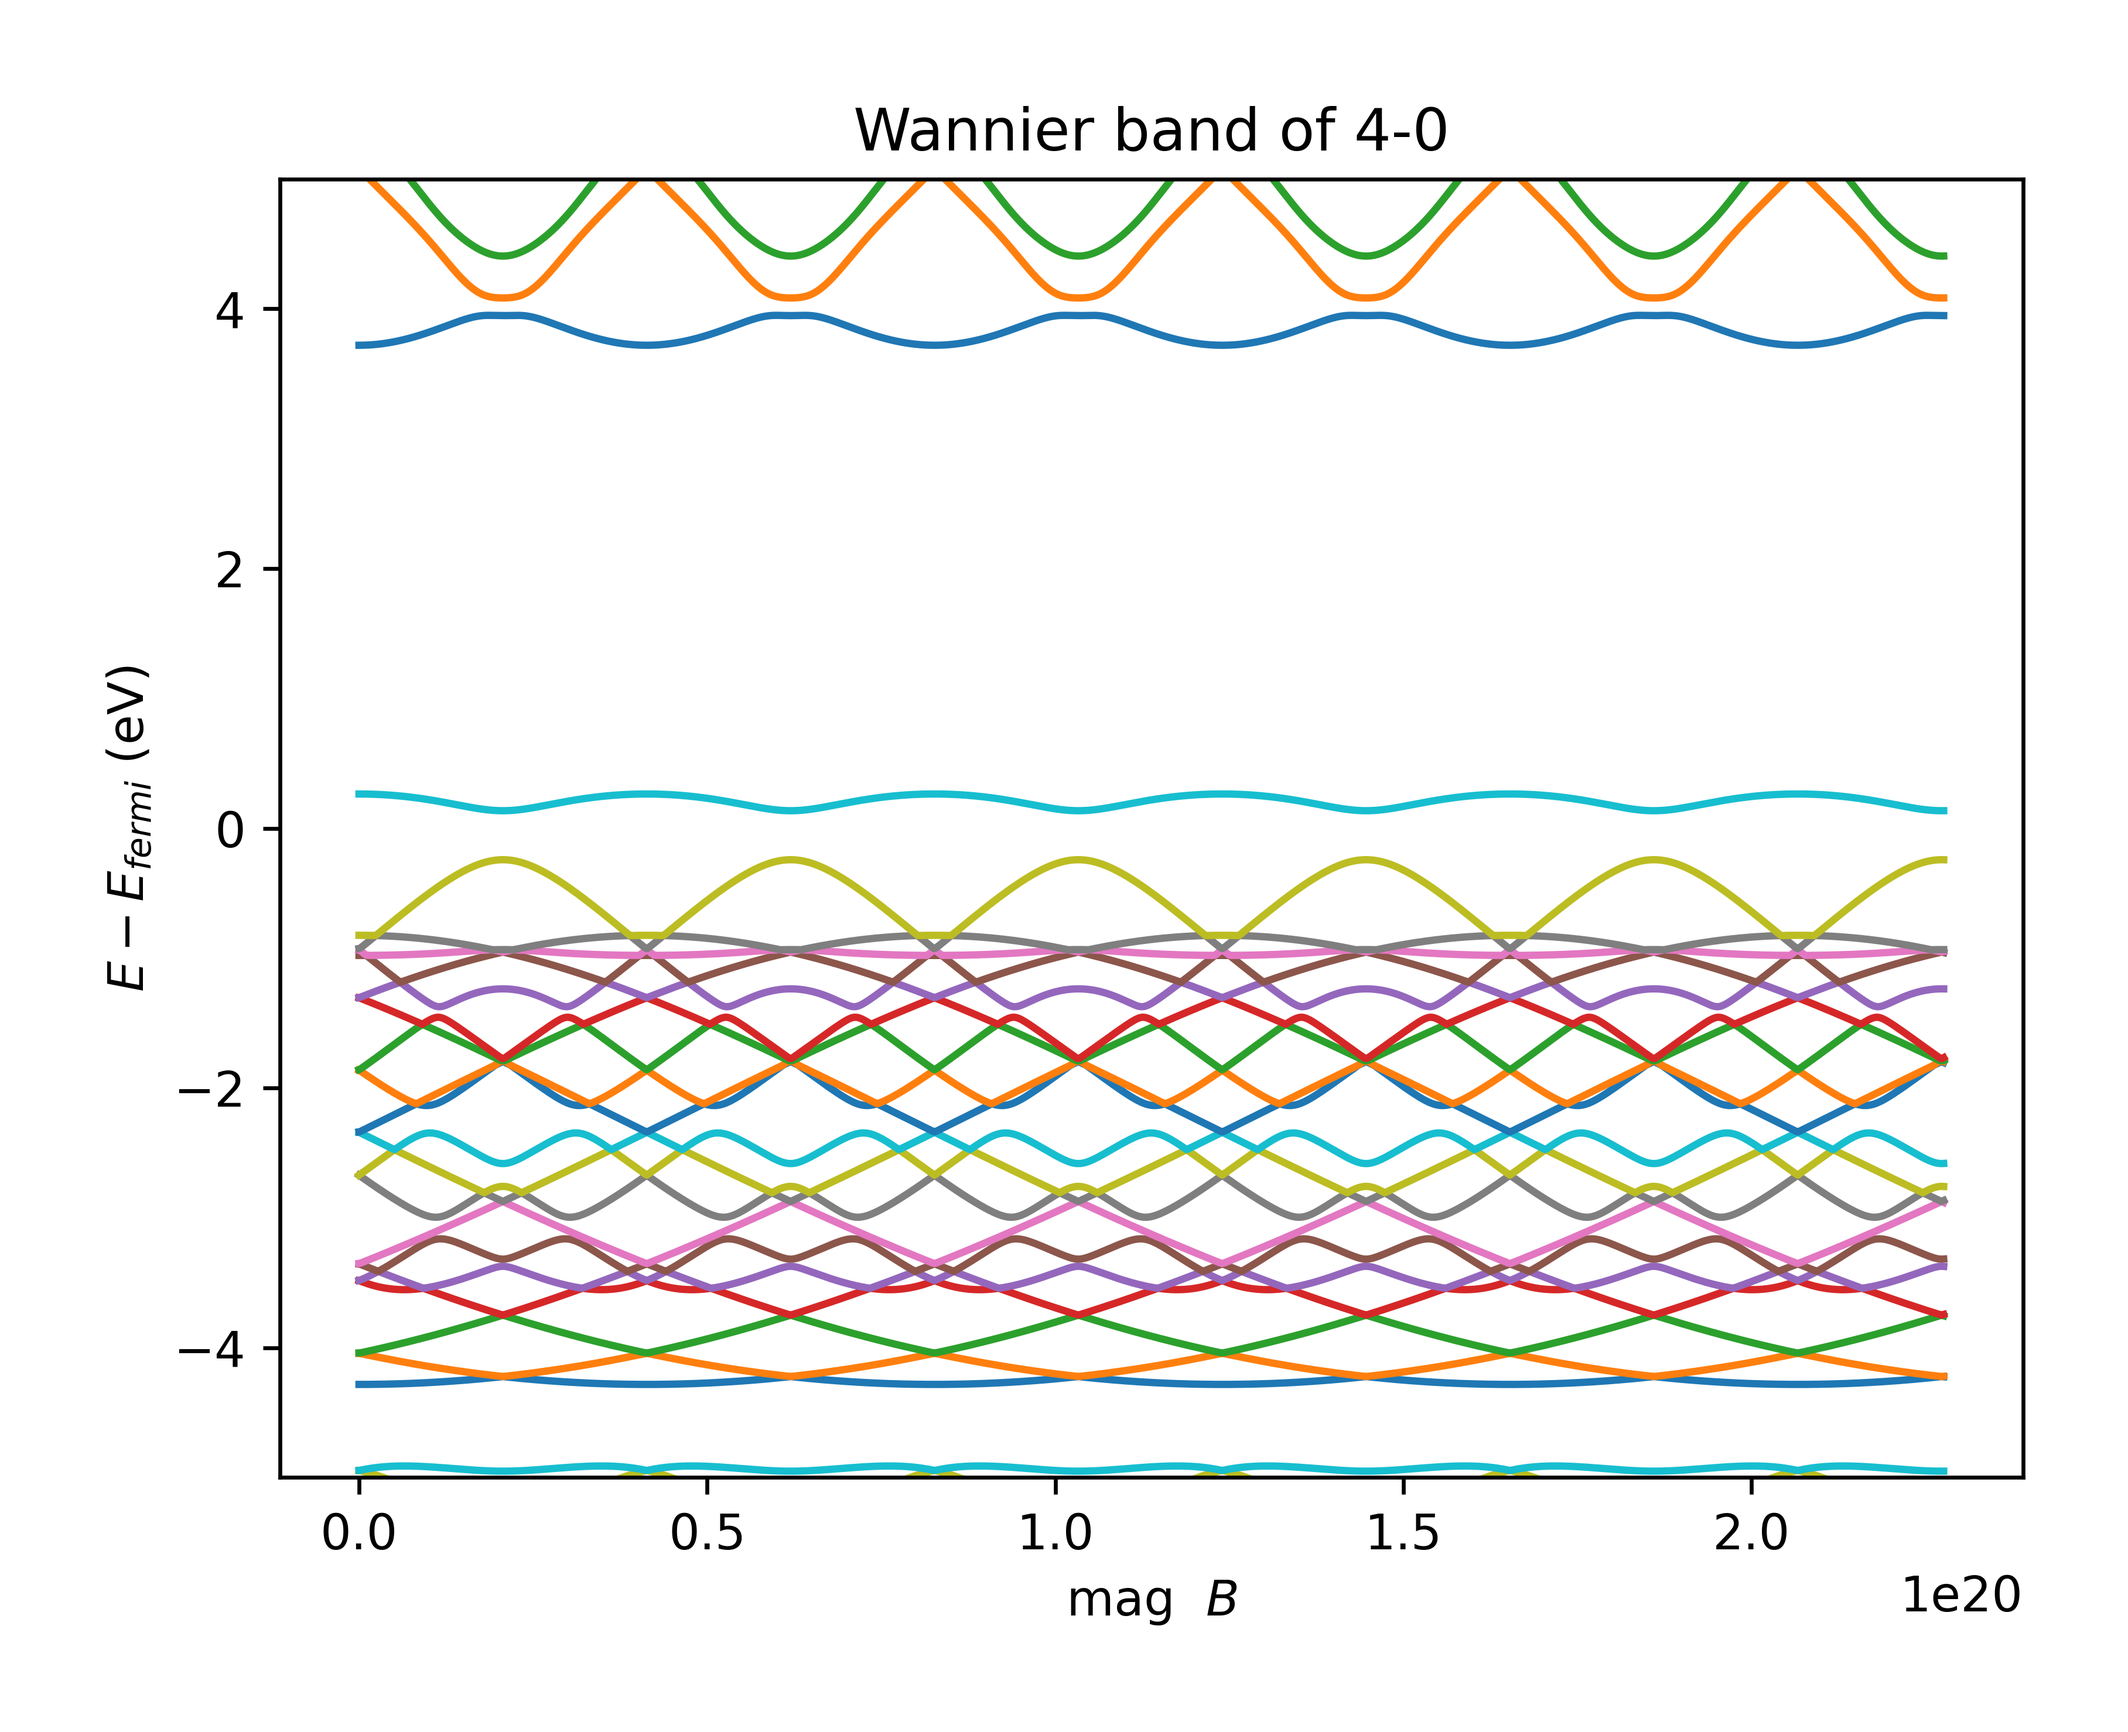
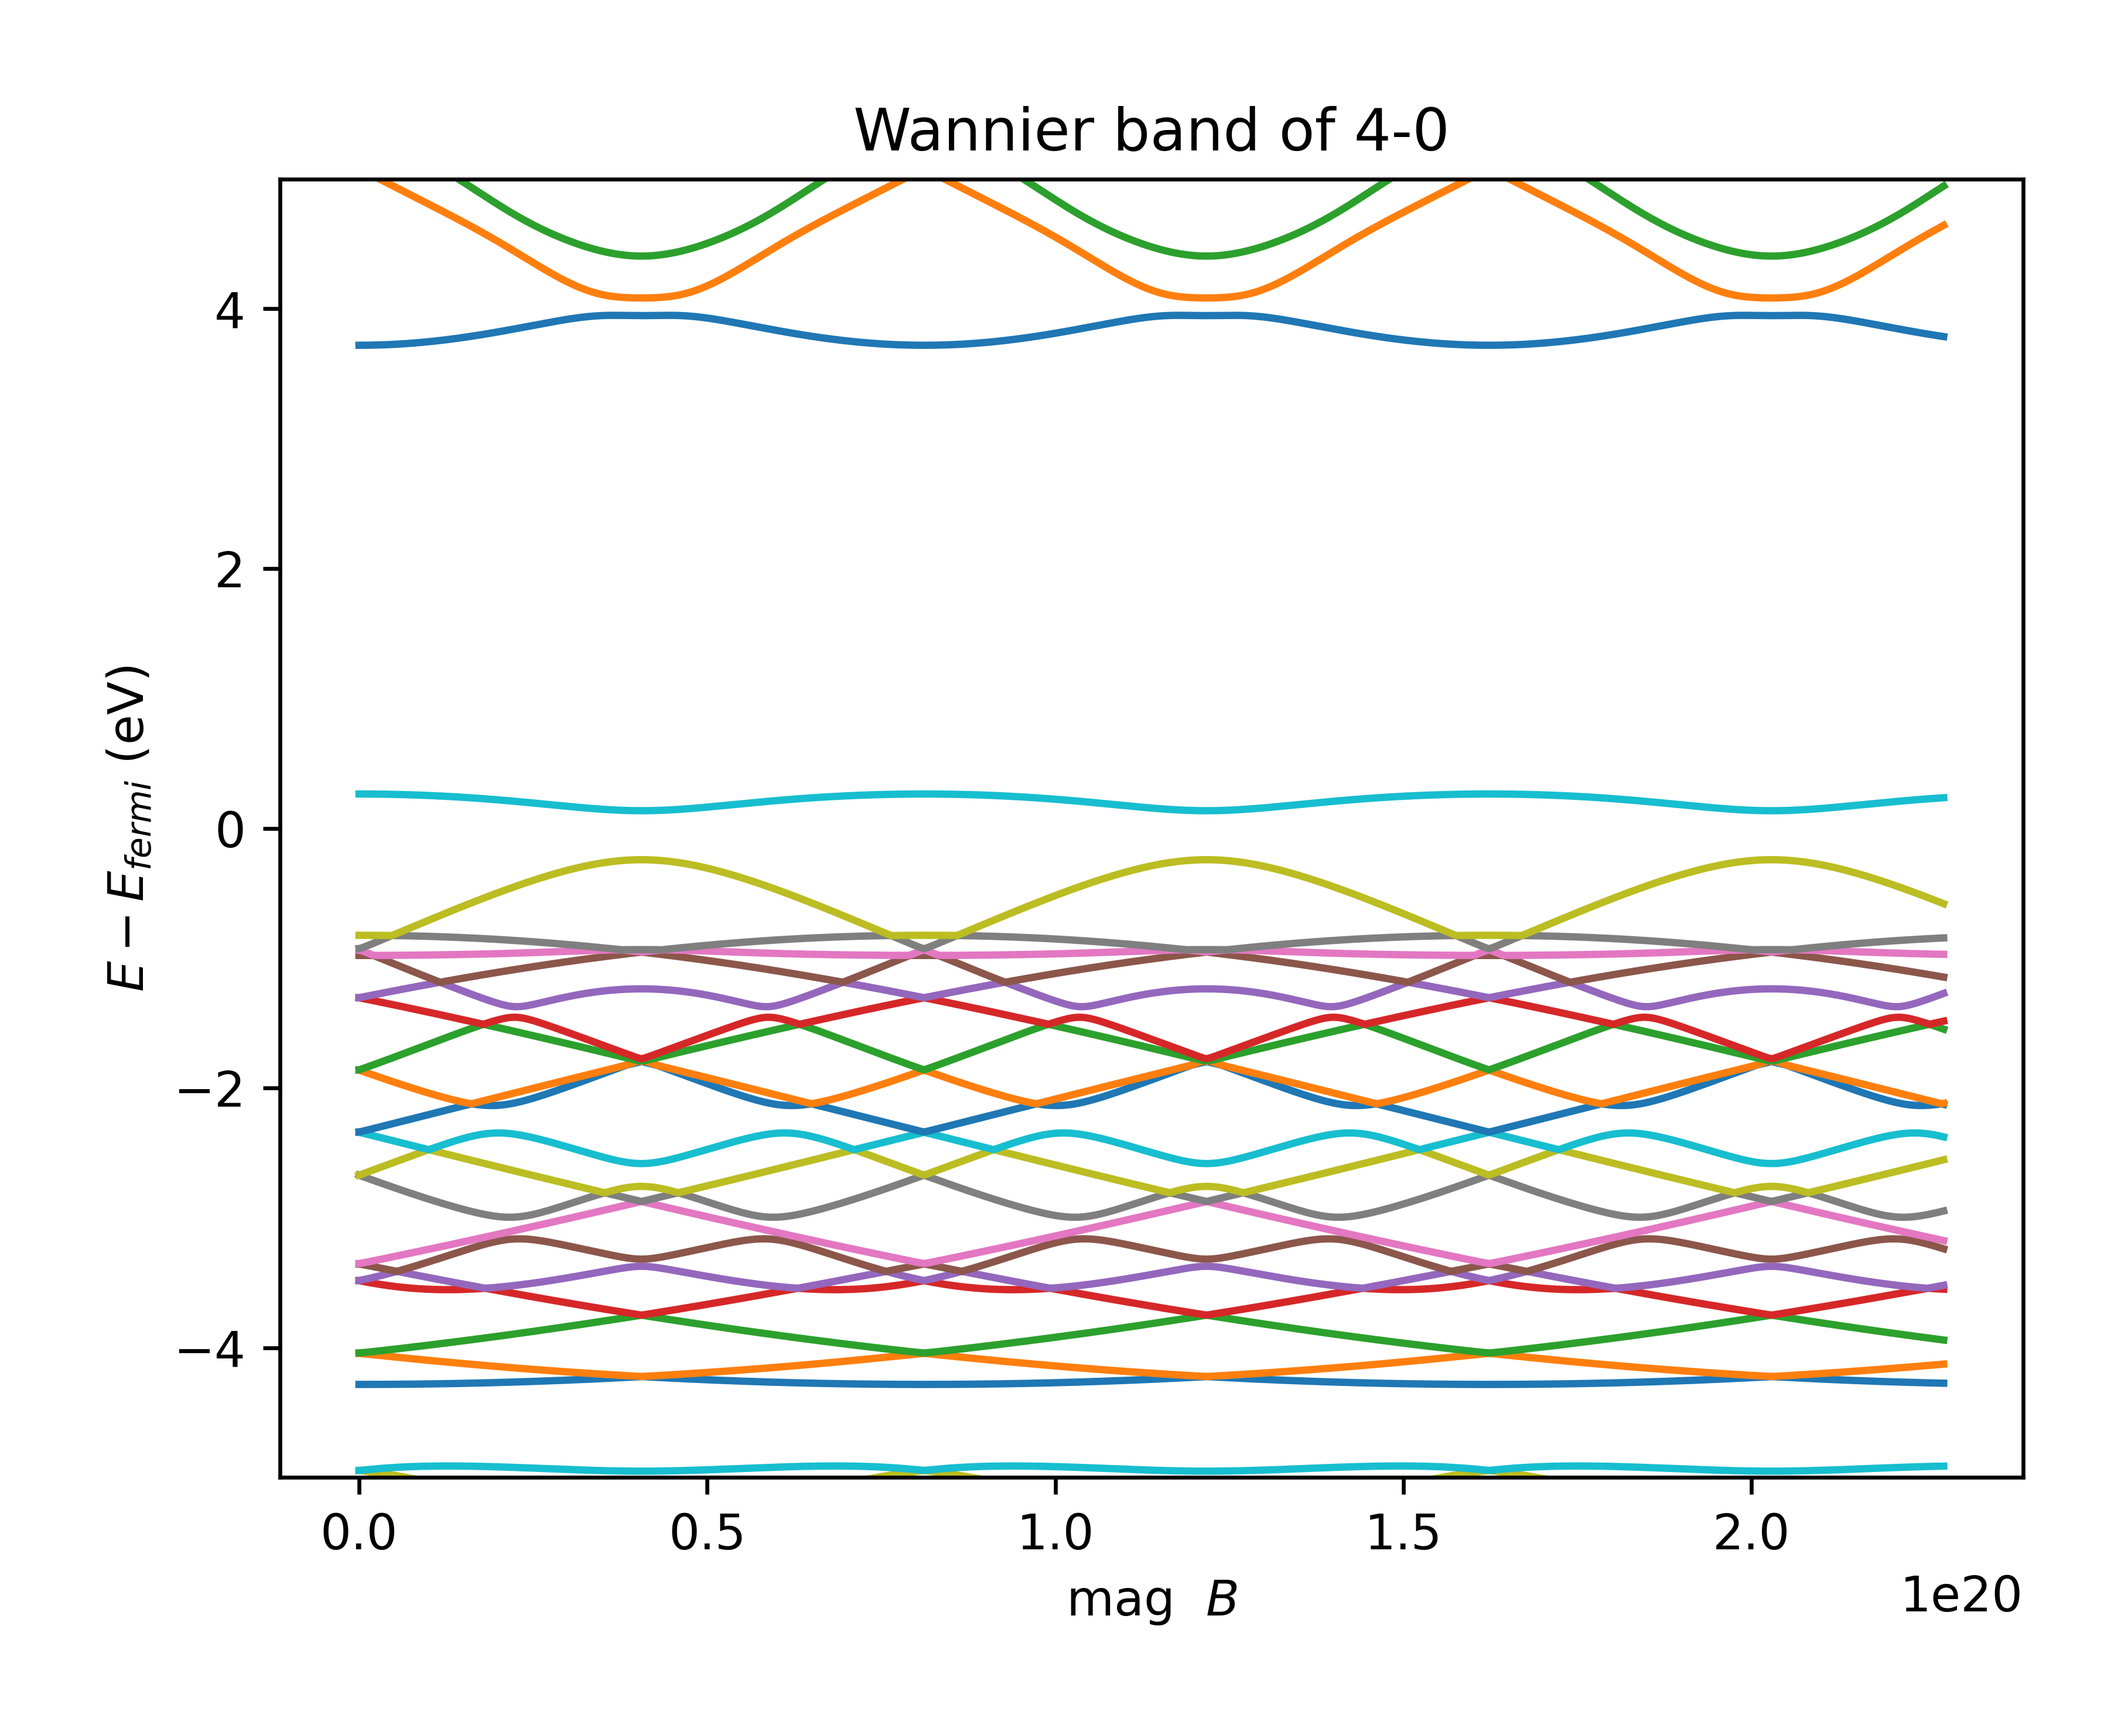
debug

diff --git a/example-4-0/CNT_fixk_new.py b/example-4-0/CNT_fixk_new.py
@@ -17,7 +17,7 @@ modified by Ting BAO, for:
 * Slightly change the file IO code
 '''
 
-CNT_r=2.2 # The radius of CNT, unit: Ang
+CNT_r=1.57 # The radius of CNT, unit: Ang
 
 import time
 import numpy as np
@@ -126,7 +126,7 @@ class WannierBand():
                     sgn = np.sign(np.cross(R1, R2)[-1])
 
                     #R_avg = (np.linalg.norm(R1) + np.linalg.norm(R2)) / 2
-                    R_avg=2.2#CNT_r
+                    R_avg=CNT_r
                     theta = np.arccos(round(np.dot(R1, R2) / (np.linalg.norm(R1) * np.linalg.norm(R2)), 8))
                     S[i, j] = 1E-20 * sgn * theta * (R_avg ** 2) / 2 #use meters as unit, adjust for the sign problem
 

diff --git a/example-3-3/CNT_fixk_new.py b/example-3-3/CNT_fixk_new.py
@@ -17,6 +17,7 @@ modified by Ting BAO, for:
 * Slightly change the file IO code
 '''
 
+CNT_r=2.03
 
 import time
 import numpy as np
@@ -125,7 +126,7 @@ class WannierBand():
                     sgn = np.sign(np.cross(R1, R2)[-1])
 
                     #R_avg = (np.linalg.norm(R1) + np.linalg.norm(R2)) / 2
-                    R_avg=2.2
+                    R_avg=CNT_r
                     theta = np.arccos(round(np.dot(R1, R2) / (np.linalg.norm(R1) * np.linalg.norm(R2)), 8))
                     S[i, j] = 1E-20 * sgn * theta * (R_avg ** 2) / 2 #use meters as unit, adjust for the sign problem
 
